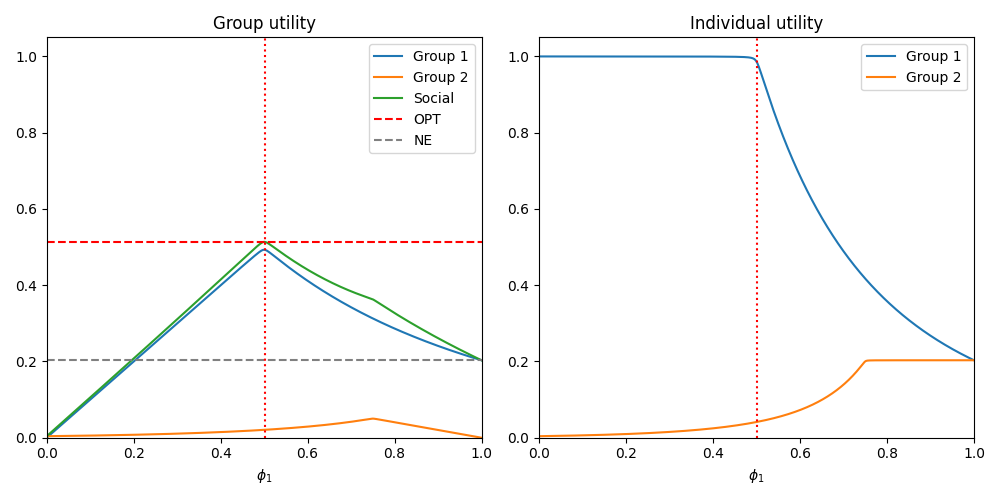
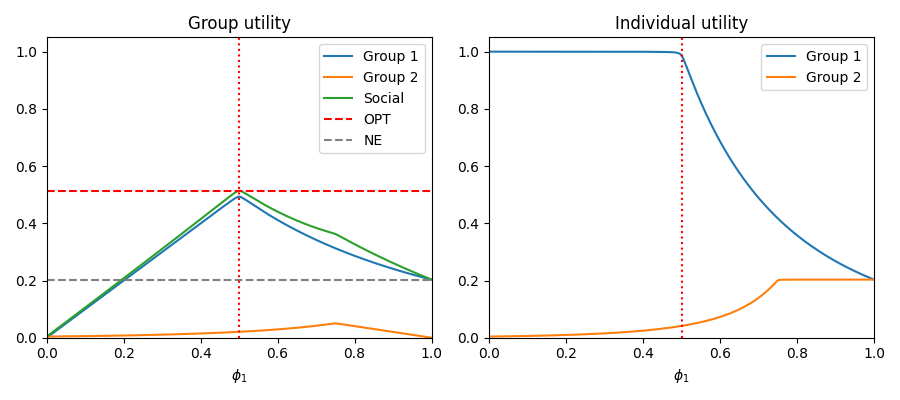
separable POA bound ratio

diff --git a/ConvexProgram.py b/ConvexProgram.py
@@ -148,8 +148,8 @@ def one_group_cvxpy(beta=3 / 14, gamma=1 / 14, epsilon=0.0001, phi=0.5):
 	"""
 	s1 = cp.Variable()
 	constraints = [s1 >= 0,
-				   s1 <= 1 - epsilon,
-				   s1 - (1 - epsilon) * cp.exp(phi * beta / gamma * (s1 - 1)) >= 0]
+	               s1 <= 1 - epsilon,
+	               s1 - (1 - epsilon) * cp.exp(phi * beta / gamma * (s1 - 1)) >= 0]
 	obj = cp.Minimize(s1)
 	prob = cp.Problem(obj, constraints)
 	prob.solve()
@@ -173,13 +173,13 @@ def two_group_cvxpy(betas, gamma=1 / 14, epsilon=0.0001, phi1=0.5):
 	s10 = (1 - epsilon) * phi1
 	s20 = (1 - epsilon) * phi2
 	constraints = [s1 >= 0,
-				   s1 <= s10,
-				   s2 >= 0,
-				   s2 <= s20,
-				   s1 - s10 * cp.exp(b11 / gamma * (s1 - s10) +
-									 b12 / gamma * (s2 - s20)) >= 0,
-				   s2 - s20 * cp.exp(b21 / gamma * (s1 - s10) +
-									 b22 / gamma * (s2 - s20)) >= 0]
+	               s1 <= s10,
+	               s2 >= 0,
+	               s2 <= s20,
+	               s1 - s10 * cp.exp(b11 / gamma * (s1 - s10) +
+	                                 b12 / gamma * (s2 - s20)) >= 0,
+	               s2 - s20 * cp.exp(b21 / gamma * (s1 - s10) +
+	                                 b22 / gamma * (s2 - s20)) >= 0]
 	obj = cp.Minimize(s1 + s2)
 	prob = cp.Problem(obj, constraints)
 	prob.solve()
@@ -201,20 +201,20 @@ def three_group_cvxpy(betas, gamma=1 / 14, epsilon=0.0001, phi1=0.4, phi2=0.3, p
 	s20 = (1 - epsilon) * phi2
 	s30 = (1 - epsilon) * phi3
 	constraints = [s1 >= 0,
-				   s1 <= s10,
-				   s2 >= 0,
-				   s2 <= s20,
-				   s3 >= 0,
-				   s3 <= s30,
-				   s1 - s10 * cp.exp(b11 / gamma * (s1 - s10) +
-									 b12 / gamma * (s2 - s20) +
-									 b13 / gamma * (s3 - s30)) >= 0,
-				   s2 - s20 * cp.exp(b21 / gamma * (s1 - s10) +
-									 b22 / gamma * (s2 - s20) +
-									 b23 / gamma * (s3 - s30)) >= 0,
-				   s3 - s30 * cp.exp(b31 / gamma * (s1 - s10) +
-									 b32 / gamma * (s2 - s20) +
-									 b33 / gamma * (s3 - s30)) >= 0]
+	               s1 <= s10,
+	               s2 >= 0,
+	               s2 <= s20,
+	               s3 >= 0,
+	               s3 <= s30,
+	               s1 - s10 * cp.exp(b11 / gamma * (s1 - s10) +
+	                                 b12 / gamma * (s2 - s20) +
+	                                 b13 / gamma * (s3 - s30)) >= 0,
+	               s2 - s20 * cp.exp(b21 / gamma * (s1 - s10) +
+	                                 b22 / gamma * (s2 - s20) +
+	                                 b23 / gamma * (s3 - s30)) >= 0,
+	               s3 - s30 * cp.exp(b31 / gamma * (s1 - s10) +
+	                                 b32 / gamma * (s2 - s20) +
+	                                 b33 / gamma * (s3 - s30)) >= 0]
 	obj = cp.Minimize(s1 + s2 + s3)
 	prob = cp.Problem(obj, constraints)
 	prob.solve()
@@ -224,25 +224,42 @@ def three_group_cvxpy(betas, gamma=1 / 14, epsilon=0.0001, phi1=0.4, phi2=0.3, p
 	return s1.value, s2.value, s3.value
 
 
-def separable_two_group_POA_comparison(beta1=2 / 14, beta2=1 / 14, gamma=1 / 14, epsilon=0.0001, payment_ratio=2.0):
+def separable_two_group_POA_comparison(beta1=2 / 14, beta2=1 / 14, gamma=1 / 14, epsilon=0.0001, payment_ratio=2.0,
+                                       printout=True):
 	"""
 	compare POA of 2-group separable
 	"""
 	R1 = beta1 / gamma
 	R2 = beta2 / gamma
-	phi_range = np.arange(phi_step, 1, phi_step)
-	S1s = []
-	S2s = []
-	for phi in phi_range:
+	phi_range = np.arange(0, 1 + phi_step, phi_step)
+	S1s = [0]
+	S2s = [one_group_cvxpy(beta2, gamma, epsilon, 1)]
+	UG1s = [S1s[-1] * payment_ratio]
+	UG2s = [S2s[-1]]
+	U1s = [payment_ratio]
+	U2s = [S2s[-1]]
+	for phi in phi_range[1:-1]:
 		S1s.append(one_group_cvxpy(beta1, gamma, epsilon, phi))
 		S2s.append(one_group_cvxpy(beta2, gamma, epsilon, 1 - phi))
+		UG1s.append(S1s[-1] * payment_ratio)
+		UG2s.append(S2s[-1])
+		U1s.append(UG1s[-1] / phi)
+		U2s.append(UG2s[-1] / (1 - phi))
+
+	S1s.append(one_group_cvxpy(beta1, gamma, epsilon, 1))
+	S2s.append(0)
+	UG1s.append(S1s[-1] * payment_ratio)
+	UG2s.append(S2s[-1])
+	U1s.append(UG1s[-1])
+	U2s.append(1)
 	# POA, idx = separable_POA_searcher(beta1, beta2, gamma, epsilon, phi_range, S1s, S2s, payment_ratio)
 
 	# payment_ratio = 17
-	UG1s = [S1 * payment_ratio for S1 in S1s]
-	UG2s = [S2 for S2 in S2s]
-	U1s = [UG1 / phi for UG1, phi in zip(UG1s, phi_range)]
-	U2s = [UG2 / (1 - phi) for UG2, phi in zip(UG2s, phi_range)]
+
+	# UG1s.extend([S1 * payment_ratio for S1 in S1s])
+	# UG2s.extend([S2 for S2 in S2s])
+	# U1s = [UG1 / phi for UG1, phi in zip(UG1s, phi_range)]
+	# U2s = [UG2 / (1 - phi) for UG2, phi in zip(UG2s, phi_range)]
 	social = [UG1 + UG2 for UG1, UG2 in zip(UG1s, UG2s)]
 
 	# compute OPT
@@ -256,8 +273,8 @@ def separable_two_group_POA_comparison(beta1=2 / 14, beta2=1 / 14, gamma=1 / 14,
 		social_max = max(social)
 		idx_max = social.index(social_max)
 		m = phi_range[idx_max]
-		l = phi_range[idx_max - 1]
-		r = phi_range[idx_max + 1]
+		l = phi_range[max(idx_max - 5, 0)]
+		r = phi_range[min(idx_max + 5, len(phi_range) - 1)]
 		# l = phi_range[0]
 		# r = phi_range[-1]
 		# m = (l + r) / 2
@@ -276,32 +293,34 @@ def separable_two_group_POA_comparison(beta1=2 / 14, beta2=1 / 14, gamma=1 / 14,
 		m = (l + r) / 2
 		phi_NE, NE = separable_NE_searcher(beta1, beta2, gamma, epsilon, payment_ratio, l, r, m)
 
-	# plot
-	fig = plt.figure()
-	ax1 = fig.add_subplot(121)
-	ax2 = fig.add_subplot(122)
-	ax1.plot(phi_range, UG1s, label='1')
-	ax1.plot(phi_range, UG2s, label='2')
-	ax1.plot(phi_range, social, label='social')
-	ax2.plot(phi_range, U1s, label='1')
-	ax2.plot(phi_range, U2s, label='2')
-	ax1.axvline(phi_OPT, linestyle=':', color='grey')
-	ax1.axhline(OPT, linestyle=':', color='grey')
-	ax2.axvline(phi_NE, linestyle=':', color='grey')
-	ax2.axhline(NE, linestyle=':', color='grey')
-	ax1.legend()
-	ax2.legend()
 	POA = OPT / NE
-	print("POA simulated=\n", POA)
-	print("POA bound=\n", np.exp(R1) / R1 + 1 / R2 - 1)
-	print((S2s[-1] / (1 - phi_range[-1])) / (S1s[-1] / phi_range[-1]))
-	print(OPT)
-	plt.show()
-	return
+	POA_bound = np.exp(R1) / R1 / (1 - epsilon)
+	# plot
+	if printout or POA > POA_bound:
+		fig = plt.figure()
+		ax1 = fig.add_subplot(121)
+		ax2 = fig.add_subplot(122)
+		ax1.plot(phi_range, UG1s, label='1')
+		ax1.plot(phi_range, UG2s, label='2')
+		ax1.plot(phi_range, social, label='social')
+		ax2.plot(phi_range, U1s, label='1')
+		ax2.plot(phi_range, U2s, label='2')
+		ax1.axvline(phi_OPT, linestyle=':', color='grey')
+		ax1.axhline(OPT, linestyle=':', color='grey')
+		ax2.axvline(phi_NE, linestyle=':', color='grey')
+		ax2.axhline(NE, linestyle=':', color='grey')
+		ax1.legend()
+		ax2.legend()
+		print("POA simulated=\n", POA)
+		print("POA bound=\n", POA_bound)
+		# print((S2s[-1] / (1 - phi_range[-1])) / (S1s[-1] / phi_range[-1]))
+		# print(OPT)
+		plt.show()
+	return POA, POA_bound
 
 
 def separable_three_group_POA_comparison(beta1=2 / 14, beta2=1 / 14, beta3=1 / 14, gamma=1 / 14, epsilon=0.0001, p2=0.5,
-										 p3=0.3):
+                                         p3=0.3):
 	phi_range = [i / phi_steps_3D_sep for i in range(1, phi_steps_3D_sep)]
 	S1s = [0]
 	S2s = [0]
@@ -1009,8 +1028,8 @@ def three_group_utility(b, kappas, gamma=1 / 14, epsilon=0.0001, p2=0.5, p3=0.5)
 def make_betas_dec(b0, kappas):
 	k1, k2, k3 = kappas
 	betas = [k1 * k1, k1 * k2, k1 * k3,
-			 k2 * k1, k2 * k2, k2 * k3,
-			 k3 * k1, k3 * k2, k3 * k3]
+	         k2 * k1, k2 * k2, k2 * k3,
+	         k3 * k1, k3 * k2, k3 * k3]
 	betas = [i * b0 for i in betas]
 	return betas
 
@@ -1018,8 +1037,8 @@ def make_betas_dec(b0, kappas):
 def make_betas_net(b0, kappas):
 	k1, k2, k3 = kappas
 	betas = [k1, k1 * k2, k1 * k3,
-			 k2 * k1, k2, k2 * k3,
-			 k3 * k1, k3 * k2, k3]
+	         k2 * k1, k2, k2 * k3,
+	         k3 * k1, k3 * k2, k3]
 	betas = [i * b0 for i in betas]
 	return betas
 
@@ -1080,8 +1099,8 @@ def three_group():
 
 def main():
 	# one_group_comparison()
-	# separable_two_group_POA_comparison(beta1=4 / 14, beta2=1 / 14, gamma=1 / 14, epsilon=0.0001,
-	# 								   payment_ratio=50.22135161418591)
+	separable_two_group_POA_comparison(beta1=4 / 14, beta2=1 / 14, gamma=1 / 14, epsilon=0.0001,
+	                                   payment_ratio=50.22135161418591, printout=True)
 	# separable_three_group_POA_comparison(beta1=8 / 14, beta2=7 / 14, beta3=6 / 14, gamma=1 / 14, epsilon=0.0001,
 	# 									 p2=0.9, p3=0.7)
 	# two_group_comparison(beta=2 / 14, gamma=1 / 14, epsilon=0.0001, kappa=0.3)
@@ -1090,7 +1109,7 @@ def main():
 	# two_group_feasibility(beta=3 / 14, gamma=1 / 14, epsilon=0.0001, kappa=0.3, phi1=0.5)
 
 	# three_group_feasibility_scatter(beta=3 / 14, gamma=1 / 14, epsilon=0.0001, kappa=0.3, phi1=0.4, phi2=0.3)
-	three_group()
+	# three_group()
 	return
 
 

diff --git a/SeparablePlotter.py b/SeparablePlotter.py
@@ -1,7 +1,8 @@
 import numpy as np
 import matplotlib.pyplot as plt
 from matplotlib import cm
-from ConvexProgram import one_group_binary_search
+from ConvexProgram import one_group_binary_search, separable_two_group_POA_comparison
+import concurrent.futures
 
 phi_step = 0.001
 
@@ -91,7 +92,7 @@ def two_group_POA_plotter(b1, b2, gamma, epsilon):
 	UG2s = [p2 * S2 for S2 in S2s]
 	social = [UG1 + UG2 for UG1, UG2 in zip(UG2s, UG1s)]
 
-	fig = plt.figure(figsize=(10, 5))
+	fig = plt.figure(figsize=(9, 4))
 	ax1 = fig.add_subplot(121)
 
 	ax1.plot(phi1_range, UG1s, label='Group 1')
@@ -120,6 +121,47 @@ def two_group_POA_plotter(b1, b2, gamma, epsilon):
 	fig.savefig('SeparablePOA.png')
 	# plt.show()
 	return
+
+
+def two_group_POA_bound(b2, gamma, epsilon):
+	"""
+	Compare the POA with the bound
+	"""
+	R0_range = np.arange(1, 10.01, 0.25)
+	POAs = []
+	POA_bounds = []
+	R0s = []
+	with concurrent.futures.ProcessPoolExecutor(max_workers=18) as executor:
+		results = [executor.submit(worst_POA_comparison, R0, b2, gamma, epsilon) for R0 in R0_range]
+		for f in concurrent.futures.as_completed(results):
+			R0, POA, POA_bound = f.result()
+			R0s.append(R0)
+			POAs.append(POA)
+			POA_bounds.append(POA_bound)
+	R0s, POAs, POA_bounds = zip(*sorted(zip(R0s, POAs, POA_bounds)))
+	# for R0 in R0_range:
+	# 	b1 = R0 * gamma
+	# 	p2 = one_group_binary_search(b1, gamma, epsilon, 1)
+	# 	POA, POA_bound = separable_two_group_POA_comparison(b1, b2, gamma, epsilon, p2, False)
+	# 	POAs.append(POA)
+	# 	POA_bounds.append(POA_bound)
+
+	fig = plt.figure()
+	ax1 = fig.add_subplot()
+	ax1.plot(R0s, [POA_bound / POA for POA_bound, POA in zip(POA_bounds, POAs)], marker='o', label='bound/actual')
+	# ax1.plot(R0_range, POAs, label='POA')
+	# ax1.plot(R0_range, POA_bounds, label='bound')
+	ax1.legend()
+	plt.show()
+	return
+
+
+def worst_POA_comparison(R0, b2, gamma, epsilon):
+	b1 = R0 * gamma
+	# b2 = b1 * b_ratio
+	p2 = 1 / one_group_binary_search(b1, gamma, epsilon, 1)
+	POA, POA_bound = separable_two_group_POA_comparison(b1, b2, gamma, epsilon, p2, False)
+	return R0, POA, POA_bound
 
 
 def three_group_social(b1, b2, b3, gamma, epsilon, p2, p3):
@@ -231,7 +273,8 @@ def main():
 
 	# one_group_derivative(beta=2 / 14, gamma=1 / 14, epsilon=0.0001)
 	# two_group_social(b1=5 / 14, b2=4 / 14, gamma=1 / 14, epsilon=0.0001, p2=0.8)
-	two_group_POA_plotter(b1=2 / 14, b2=4 / 14, gamma=1 / 14, epsilon=0.0001)
+	# two_group_POA_plotter(b1=2 / 14, b2=4 / 14, gamma=1 / 14, epsilon=0.0001)
+	two_group_POA_bound(b2=0.5/14, gamma=1 / 14, epsilon=0.0001)
 	# three_group_social(b1=8 / 14, b2=7 / 14, b3=6 / 14, gamma=1 / 14, epsilon=0.0001, p2=1, p3=1)
 	return
 
